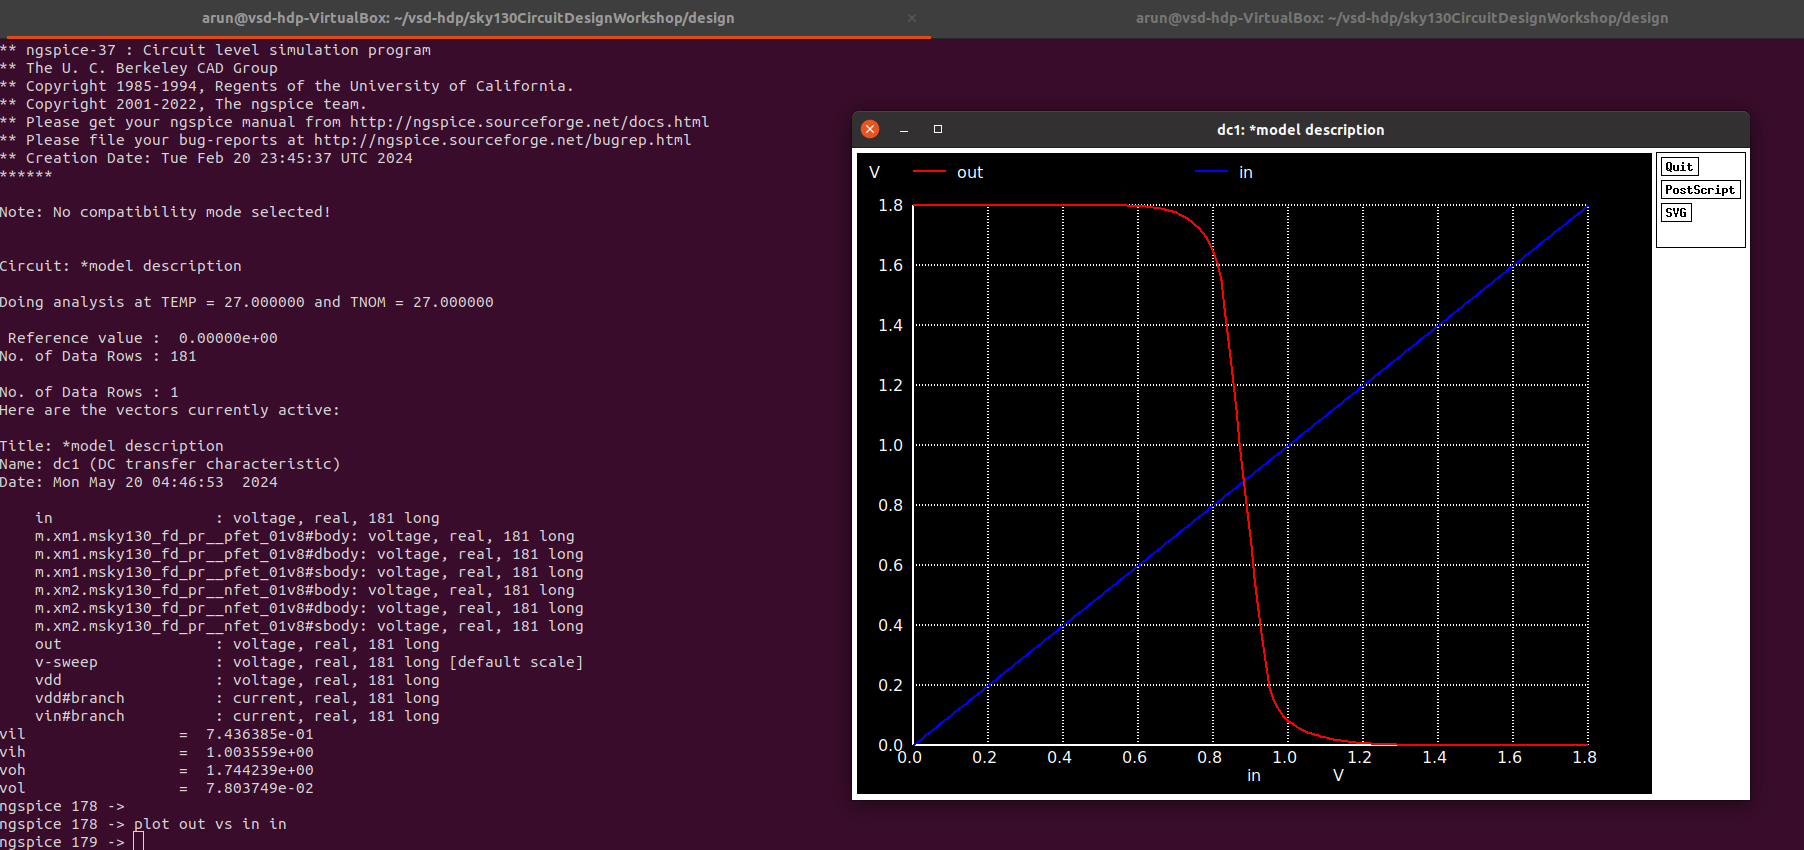
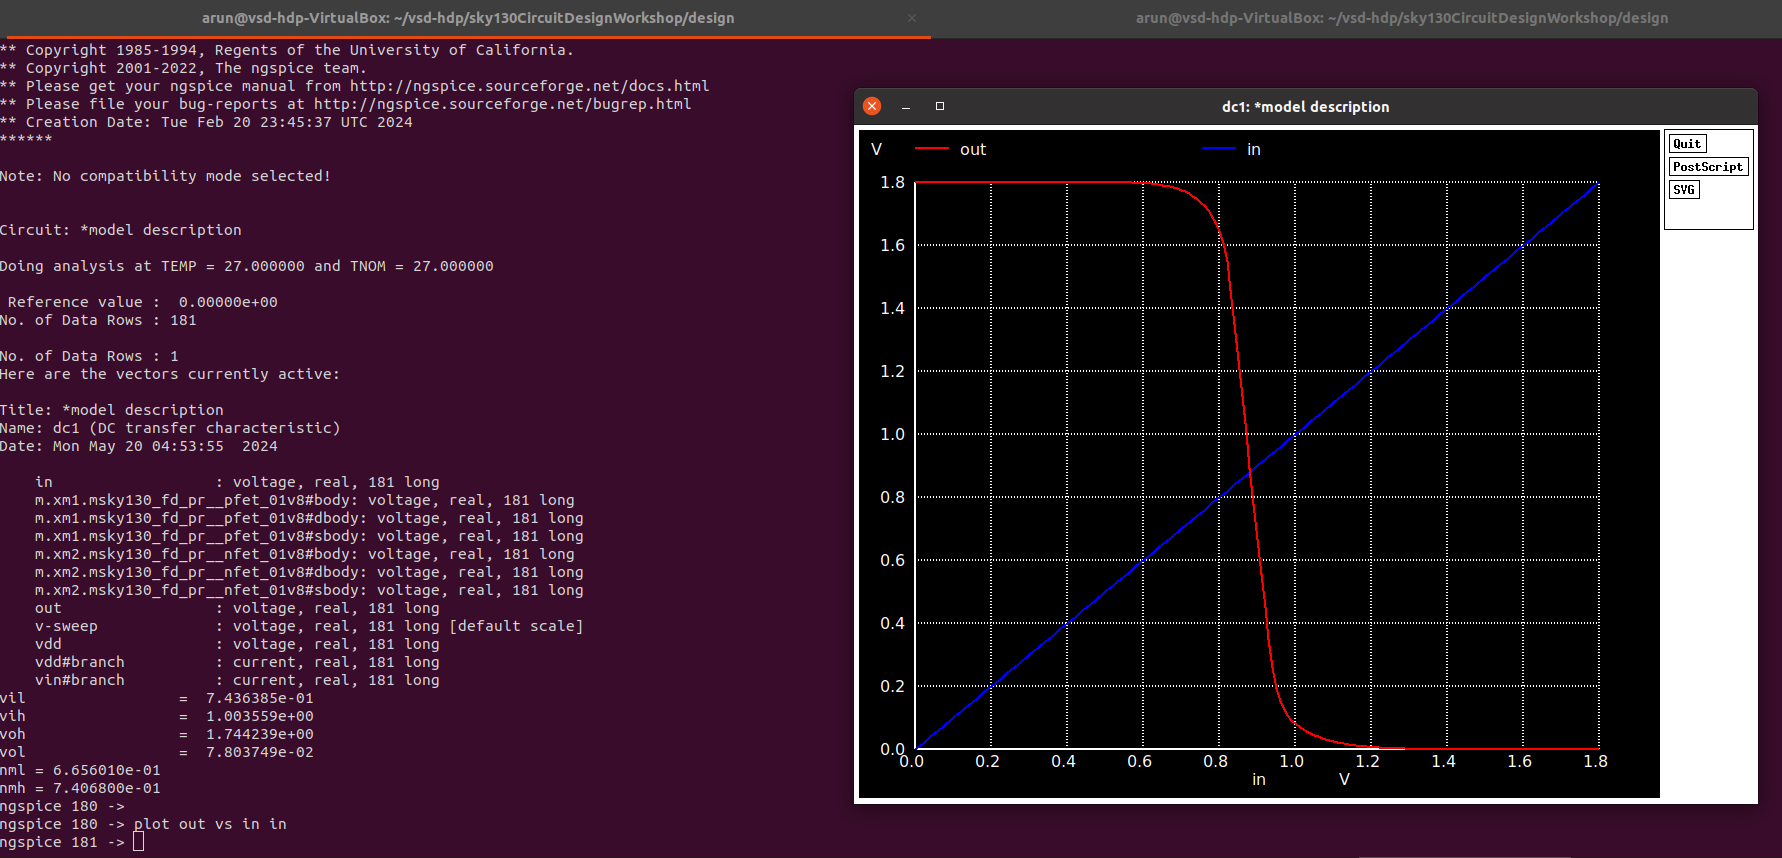
Update Day17

diff --git a/docs/Day_17.md b/docs/Day_17.md
@@ -34,6 +34,11 @@ meas dc vil find V(in) when dVout=-1 cross=1
 meas dc vih find V(in) when dVout=-1 cross=2
 meas dc voh find V(out) when dVout=-1 cross=1
 meas dc vol find V(out) when dVout=-1 cross=2
+
+let NML = vil - vol
+let NMH = voh - vih
+print NML
+print NMH
 .endc
 
 .end
